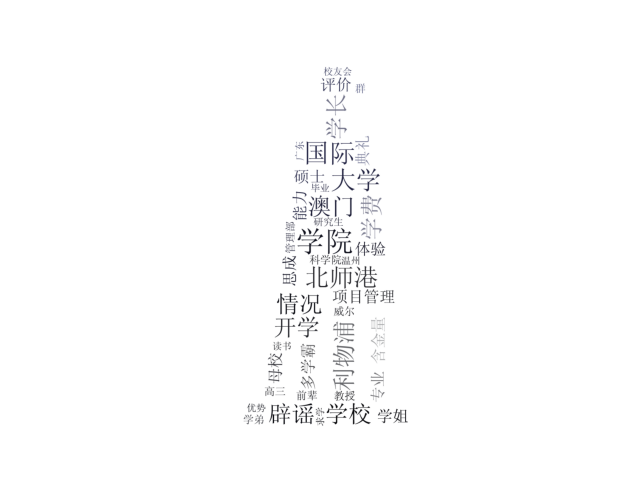
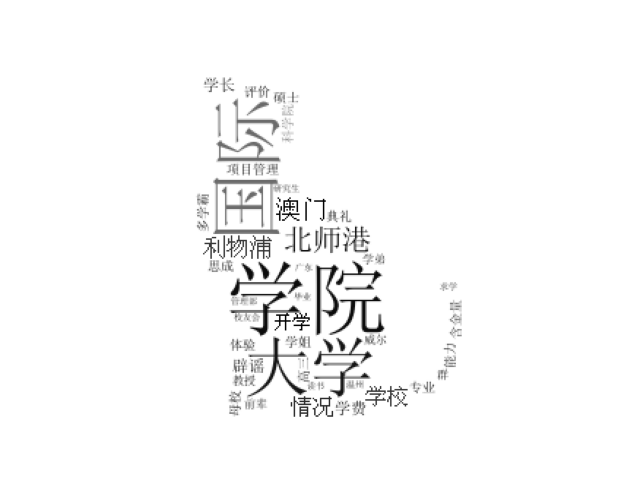
5.31 00:47 Xiao

Changed region(s): [[0.2812, 0.125, 0.6875, 0.9062], [0.6875, 0.5625, 0.7188, 0.7812]]

diff --git a/media/webImage/Bar.html b/media/webImage/Bar.html
@@ -34,14 +34,14 @@
           
           
             
-              <div class="bk-root" id="1125b80a-1475-42c2-9dfe-0e928fec127d" data-root-id="1002"></div>
+              <div class="bk-root" id="88658332-658f-4182-849e-4792bb6dbdb9" data-root-id="1002"></div>
             
           
         
       
       
         <script type="application/json" id="1130">
-          {"34222672-f9fb-4a26-92c1-45dceb57371d":{"defs":[],"roots":{"references":[{"attributes":{},"id":"1046","type":"AllLabels"},{"attributes":{"source":{"id":"1035"}},"id":"1039","type":"CDSView"},{"attributes":{},"id":"1020","type":"PanTool"},{"attributes":{"callback":null,"tooltips":"top: @top"},"id":"1026","type":"HoverTool"},{"attributes":{},"id":"1047","type":"Selection"},{"attributes":{},"id":"1021","type":"WheelZoomTool"},{"attributes":{"formatter":{"id":"1045"},"major_label_policy":{"id":"1046"},"ticker":{"id":"1017"}},"id":"1016","type":"LinearAxis"},{"attributes":{"axis":{"id":"1016"},"dimension":1,"ticker":null},"id":"1019","type":"Grid"},{"attributes":{},"id":"1048","type":"UnionRenderers"},{"attributes":{"text":"Tag Counts"},"id":"1003","type":"Title"},{"attributes":{},"id":"1022","type":"SaveTool"},{"attributes":{},"id":"1017","type":"BasicTicker"},{"attributes":{},"id":"1007","type":"DataRange1d"},{"attributes":{"formatter":{"id":"1042"},"major_label_policy":{"id":"1043"},"ticker":{"id":"1014"}},"id":"1013","type":"CategoricalAxis"},{"attributes":{"active_multi":null,"tools":[{"id":"1020"},{"id":"1021"},{"id":"1022"},{"id":"1023"},{"id":"1024"},{"id":"1025"},{"id":"1026"}]},"id":"1027","type":"Toolbar"},{"attributes":{},"id":"1023","type":"ResetTool"},{"attributes":{},"id":"1014","type":"CategoricalTicker"},{"attributes":{},"id":"1024","type":"UndoTool"},{"attributes":{"axis":{"id":"1013"},"grid_line_color":null,"ticker":null},"id":"1015","type":"Grid"},{"attributes":{},"id":"1009","type":"CategoricalScale"},{"attributes":{},"id":"1025","type":"RedoTool"},{"attributes":{},"id":"1042","type":"CategoricalTickFormatter"},{"attributes":{"data":{"fill_color":["#1663aa","#2474b7","#3686c0","#4997c9","#5fa6d1","#77b5d9","#92c4de","#aacfe5","#bfd8ed","#cfe1f2"],"top":[667,537,498,470,433,433,423,422,418,416],"x":["\u5b66\u9662","\u56fd\u9645","\u5927\u5b66","\u5317\u5e08\u6e2f","\u6fb3\u95e8","\u5229\u7269\u6d66","\u5b66\u6821","\u60c5\u51b5","\u5f00\u5b66","\u8f9f\u8c23"]},"selected":{"id":"1047"},"selection_policy":{"id":"1048"}},"id":"1035","type":"ColumnDataSource"},{"attributes":{},"id":"1043","type":"AllLabels"},{"attributes":{"data_source":{"id":"1035"},"glyph":{"id":"1036"},"hover_glyph":null,"muted_glyph":null,"nonselection_glyph":{"id":"1037"},"view":{"id":"1039"}},"id":"1038","type":"GlyphRenderer"},{"attributes":{"factors":["\u5b66\u9662","\u56fd\u9645","\u5927\u5b66","\u5317\u5e08\u6e2f","\u6fb3\u95e8","\u5229\u7269\u6d66","\u5b66\u6821","\u60c5\u51b5","\u5f00\u5b66","\u8f9f\u8c23"]},"id":"1005","type":"FactorRange"},{"attributes":{"fill_color":{"field":"fill_color"},"line_color":{"value":"#1f77b4"},"top":{"field":"top"},"width":{"value":0.9},"x":{"field":"x"}},"id":"1036","type":"VBar"},{"attributes":{},"id":"1045","type":"BasicTickFormatter"},{"attributes":{},"id":"1011","type":"LinearScale"},{"attributes":{"below":[{"id":"1013"}],"center":[{"id":"1015"},{"id":"1019"}],"height":300,"left":[{"id":"1016"}],"renderers":[{"id":"1038"}],"title":{"id":"1003"},"toolbar":{"id":"1027"},"toolbar_location":"above","x_range":{"id":"1005"},"x_scale":{"id":"1009"},"y_range":{"id":"1007"},"y_scale":{"id":"1011"}},"id":"1002","subtype":"Figure","type":"Plot"},{"attributes":{"fill_alpha":{"value":0.1},"fill_color":{"field":"fill_color"},"line_alpha":{"value":0.1},"line_color":{"value":"#1f77b4"},"top":{"field":"top"},"width":{"value":0.9},"x":{"field":"x"}},"id":"1037","type":"VBar"}],"root_ids":["1002"]},"title":"Bokeh Application","version":"2.3.2"}}
+          {"1d1e15b4-bc7a-498e-b65a-1759c4950b67":{"defs":[],"roots":{"references":[{"attributes":{},"id":"1044","type":"AllLabels"},{"attributes":{},"id":"1048","type":"UnionRenderers"},{"attributes":{},"id":"1020","type":"PanTool"},{"attributes":{},"id":"1045","type":"BasicTickFormatter"},{"attributes":{},"id":"1009","type":"CategoricalScale"},{"attributes":{},"id":"1021","type":"WheelZoomTool"},{"attributes":{},"id":"1047","type":"Selection"},{"attributes":{"source":{"id":"1035"}},"id":"1039","type":"CDSView"},{"attributes":{"below":[{"id":"1013"}],"center":[{"id":"1015"},{"id":"1019"}],"height":300,"left":[{"id":"1016"}],"renderers":[{"id":"1038"}],"title":{"id":"1003"},"toolbar":{"id":"1027"},"toolbar_location":"above","x_range":{"id":"1005"},"x_scale":{"id":"1009"},"y_range":{"id":"1007"},"y_scale":{"id":"1011"}},"id":"1002","subtype":"Figure","type":"Plot"},{"attributes":{},"id":"1011","type":"LinearScale"},{"attributes":{},"id":"1022","type":"SaveTool"},{"attributes":{"callback":null,"tooltips":"top: @top"},"id":"1026","type":"HoverTool"},{"attributes":{"axis":{"id":"1013"},"grid_line_color":null,"ticker":null},"id":"1015","type":"Grid"},{"attributes":{},"id":"1023","type":"ResetTool"},{"attributes":{"formatter":{"id":"1045"},"major_label_policy":{"id":"1044"},"ticker":{"id":"1017"}},"id":"1016","type":"LinearAxis"},{"attributes":{},"id":"1024","type":"UndoTool"},{"attributes":{},"id":"1007","type":"DataRange1d"},{"attributes":{},"id":"1017","type":"BasicTicker"},{"attributes":{},"id":"1025","type":"RedoTool"},{"attributes":{"axis":{"id":"1016"},"dimension":1,"ticker":null},"id":"1019","type":"Grid"},{"attributes":{"formatter":{"id":"1042"},"major_label_policy":{"id":"1041"},"ticker":{"id":"1014"}},"id":"1013","type":"CategoricalAxis"},{"attributes":{"text":"Tag Counts"},"id":"1003","type":"Title"},{"attributes":{"fill_color":{"field":"fill_color"},"line_color":{"value":"#1f77b4"},"top":{"field":"top"},"width":{"value":0.9},"x":{"field":"x"}},"id":"1036","type":"VBar"},{"attributes":{},"id":"1041","type":"AllLabels"},{"attributes":{"factors":["\u5b66\u9662","\u56fd\u9645","\u5927\u5b66","\u5317\u5e08\u6e2f","\u6fb3\u95e8","\u5229\u7269\u6d66","\u5b66\u6821","\u60c5\u51b5","\u5f00\u5b66","\u8f9f\u8c23"]},"id":"1005","type":"FactorRange"},{"attributes":{},"id":"1014","type":"CategoricalTicker"},{"attributes":{"data_source":{"id":"1035"},"glyph":{"id":"1036"},"hover_glyph":null,"muted_glyph":null,"nonselection_glyph":{"id":"1037"},"view":{"id":"1039"}},"id":"1038","type":"GlyphRenderer"},{"attributes":{"data":{"fill_color":["#1663aa","#2474b7","#3686c0","#4997c9","#5fa6d1","#77b5d9","#92c4de","#aacfe5","#bfd8ed","#cfe1f2"],"top":[667,537,498,470,433,433,423,422,418,416],"x":["\u5b66\u9662","\u56fd\u9645","\u5927\u5b66","\u5317\u5e08\u6e2f","\u6fb3\u95e8","\u5229\u7269\u6d66","\u5b66\u6821","\u60c5\u51b5","\u5f00\u5b66","\u8f9f\u8c23"]},"selected":{"id":"1047"},"selection_policy":{"id":"1048"}},"id":"1035","type":"ColumnDataSource"},{"attributes":{},"id":"1042","type":"CategoricalTickFormatter"},{"attributes":{"fill_alpha":{"value":0.1},"fill_color":{"field":"fill_color"},"line_alpha":{"value":0.1},"line_color":{"value":"#1f77b4"},"top":{"field":"top"},"width":{"value":0.9},"x":{"field":"x"}},"id":"1037","type":"VBar"},{"attributes":{"active_multi":null,"tools":[{"id":"1020"},{"id":"1021"},{"id":"1022"},{"id":"1023"},{"id":"1024"},{"id":"1025"},{"id":"1026"}]},"id":"1027","type":"Toolbar"}],"root_ids":["1002"]},"title":"Bokeh Application","version":"2.3.2"}}
         </script>
         <script type="text/javascript">
           (function() {
@@ -51,7 +51,7 @@
                   function embed_document(root) {
                     
                   var docs_json = document.getElementById('1130').textContent;
-                  var render_items = [{"docid":"34222672-f9fb-4a26-92c1-45dceb57371d","root_ids":["1002"],"roots":{"1002":"1125b80a-1475-42c2-9dfe-0e928fec127d"}}];
+                  var render_items = [{"docid":"1d1e15b4-bc7a-498e-b65a-1759c4950b67","root_ids":["1002"],"roots":{"1002":"88658332-658f-4182-849e-4792bb6dbdb9"}}];
                   root.Bokeh.embed.embed_items(docs_json, render_items);
                 
                   }

diff --git a/GroupProject/views.py b/GroupProject/views.py
@@ -90,17 +90,17 @@ def refreshGraph(request):
     try:
         assert request.session['commonUserID'] == 1
         assert request.method == "POST"
-        tagAndNUmList = list(Tag.objects.order_by("-tagShowNum")[1:41].values_list("tagName", "tagShowNum"))
+        tagAndNUmList = list(Tag.objects.order_by("-tagShowNum")[1:40].values_list("tagName", "tagShowNum"))
         tadAndNumDict = {}
         for i in tagAndNUmList:
             tadAndNumDict[i[0]] = i[1]
         webImageLocation = os.path.join(".", ".", os.getcwd(), "media", "webImage")
-        mask = np.array(Image.open(os.path.join(webImageLocation, "Slander man剪影.PNG")))
+        mask = np.array(Image.open(os.path.join(webImageLocation, "cat.PNG")))
         wc = wordcloud.WordCloud(
             font_path=os.path.join(webImageLocation, "simsun.ttf"),
             mask=mask,
             max_words=40,
-            max_font_size=70,
+            max_font_size=100,
             background_color='white'
         )
         wc.generate_from_frequencies(tadAndNumDict)
